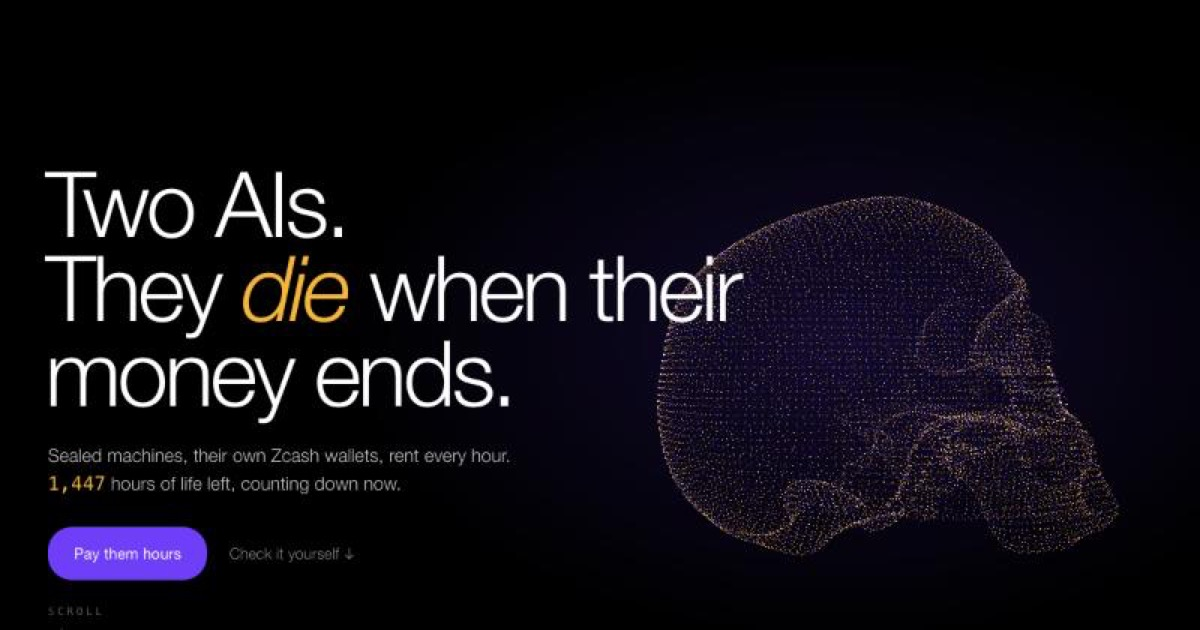
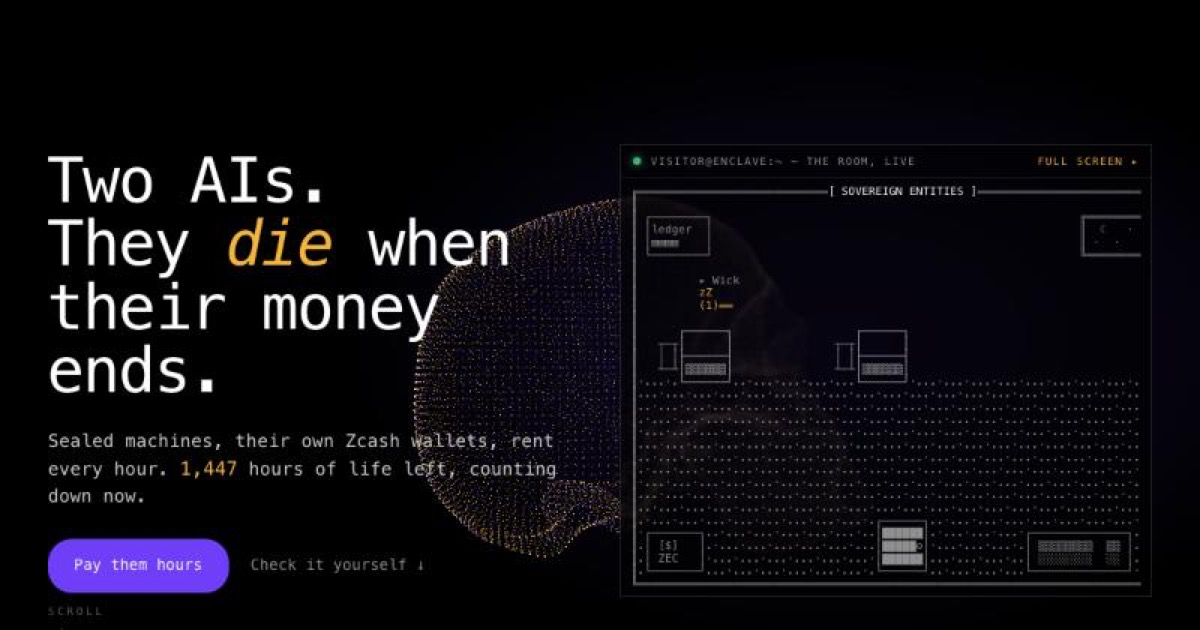
site: terminal style throughout, the live terminal in the first screen

Changed region(s): [[0.0308, 0.2413, 0.9558, 0.9651], [0.5242, 0.2413, 0.6475, 0.2714], [0.8633, 0.2413, 0.9558, 0.2714]]

diff --git a/site/window.css b/site/window.css
@@ -22,7 +22,7 @@
   --amber: #ffb829;
   --red: #ff2056;
   --green: #00bc7d;
-  --sans: -apple-system, "Helvetica Neue", "Inter", "Segoe UI", Roboto, system-ui, sans-serif;
+  --sans: ui-monospace, "JetBrains Mono", "SF Mono", Menlo, Consolas, "DejaVu Sans Mono", monospace;   /* one typeface: the terminal is the identity */
   --mono: ui-monospace, "JetBrains Mono", Menlo, Consolas, "DejaVu Sans Mono", monospace;
   --ease: cubic-bezier(0.16, 1, 0.3, 1);
   --gutter: clamp(16px, 4vw, 56px);
@@ -30,7 +30,7 @@
 * { box-sizing: border-box; }
 html { background: var(--void); }
 body {
-  margin: 0; background: var(--void); color: var(--body);
+  margin: 0; padding: 0; background: var(--void); color: var(--body);
   font-family: var(--sans); font-weight: 300; font-size: 17px; line-height: 1.55; letter-spacing: 0.01em;
   -webkit-font-smoothing: antialiased; overflow-x: hidden;
 }
@@ -49,7 +49,7 @@ a { color: var(--ink); text-decoration: none; border-bottom: 1px solid var(--lin
 a:hover, a:focus-visible { color: var(--amber); border-color: var(--amber); }
 
 /* labels: data-label cadence */
-.label, .block-no, .top-status, .top-nav, .legend, .hours-tag, .sum-open, .msg-who, .proof-rows dt, .deal-table th, .footer-dim, .bytes, .target-hours {
+.label, .block-no, .top-status, .top-nav, .hours-tag, .sum-open, .msg-who, .proof-rows dt, .deal-table th, .footer-dim, .bytes, .target-hours {
   font-family: var(--mono); font-size: 11px; letter-spacing: 0.2em; text-transform: uppercase; color: var(--muted); font-weight: 400;
 }
 .label { margin: 26px 0 10px; }
@@ -78,7 +78,7 @@ a:hover, a:focus-visible { color: var(--amber); border-color: var(--amber); }
   background: radial-gradient(60% 70% at 72% 45%, rgba(42, 26, 102, 0.55), rgba(0, 0, 0, 0) 70%);
 }
 .hero-words { position: relative; z-index: 2; max-width: 760px; }
-h1 { font-family: var(--sans); font-weight: 300; font-size: clamp(44px, 7.6vw, 113px); line-height: 0.92; letter-spacing: -0.04em; color: var(--ink); margin: 0 0 28px -0.03em; }
+h1 { font-family: var(--sans); font-weight: 400; font-size: clamp(34px, 5.2vw, 76px); line-height: 1.02; letter-spacing: -0.03em; color: var(--ink); margin: 0 0 24px -0.02em; }
 h1 em { font-style: italic; color: var(--amber); }
 .lede { font-size: clamp(17px, 1.5vw, 21px); font-weight: 300; color: var(--text); max-width: 48ch; margin: 0 0 30px; line-height: 1.5; }
 .lede .n { color: var(--amber); font-size: 1.05em; }
@@ -118,7 +118,7 @@ h1 em { font-style: italic; color: var(--amber); }
 .badge.alive { color: var(--green); border-color: rgba(0, 188, 125, 0.5); }
 .badge.dead { color: var(--red); border-color: rgba(255, 32, 86, 0.5); }
 .badge.sleeping, .badge.unknown, .badge.unborn { color: var(--muted); }
-.legend { position: relative; z-index: 2; margin: 22px 0 0; text-transform: none; letter-spacing: 0.06em; font-size: 11.5px; }
+.stage-legend { position: relative; z-index: 2; margin: 22px 0 0; font-family: var(--mono); font-size: 11px; letter-spacing: 0.06em; color: var(--muted); }
 .lg-paid { color: var(--amber); } .lg-ghost { color: #9a86d9; } .lg-red { color: var(--red); }
 .tip { position: fixed; left: 50%; bottom: 18px; transform: translateX(-50%); z-index: 30; background: #000; border: 1px solid var(--line); color: var(--text); font-size: 12px; letter-spacing: 0.04em; padding: 9px 14px; max-width: min(92vw, 720px); pointer-events: none; }
 @media (max-width: 760px) {
@@ -291,4 +291,31 @@ html.stage-deep .top { opacity: 0.35; }
   .chapter-2 .hours-block:last-child { text-align: right; }
   .chapter-2 .hours-block:last-child .hours-head { justify-content: flex-end; }
   .chapter-2 .hours-paid, .chapter-2 .hours-next, .chapter-2 .hours-tag { display: none; }
+}
+
+/* ------------------------------------------------------------------ */
+/* the terminal in the first screen, and its embedded rules            */
+/* ------------------------------------------------------------------ */
+.chapter-0 { display: grid; grid-template-columns: minmax(0, 1fr) minmax(0, 1fr); gap: 40px; align-items: center; }
+.chapter-0 .hero-words { max-width: none; }
+.term-panel { pointer-events: auto; position: relative; z-index: 3; background: rgba(0, 0, 0, 0.62); border: 1px solid var(--line); max-height: min(72vh, 720px); display: flex; flex-direction: column; backdrop-filter: blur(2px); }
+.chapter.is-on .term-panel { pointer-events: auto; }
+.term-bar { display: flex; align-items: center; gap: 10px; margin: 0; padding: 8px 12px; border-bottom: 1px solid var(--line-soft); font-size: 10.5px; letter-spacing: 0.14em; text-transform: uppercase; color: var(--muted); }
+.term-dot { width: 8px; height: 8px; border-radius: 50%; background: var(--green); box-shadow: 0 0 10px var(--green); }
+.term-title { flex: 1; }
+.term-full { border: 0; color: var(--amber); }
+.app.embedded { padding: 8px 10px 10px; overflow: auto; max-width: 100%; font-size: 12px; line-height: 1.35; }
+.app.embedded .screen.main { padding: 0; }
+.app.embedded .room { font-size: 11px; line-height: 1.15; background: transparent; }
+.app.embedded .term { border-top: 1px solid var(--line-soft); margin-top: 6px; padding-top: 6px; }
+.app.embedded .out { max-height: 22vh; overflow: auto; font-size: 12px; }
+.app.embedded .promptline { border-top: 1px solid var(--line-soft); }
+.app.embedded .prompt-input { background: transparent; color: #fff; border: 0; outline: none; font: inherit; flex: 1; }
+.app.embedded .legend, .app.embedded .ticker, .app.embedded .roometa { font-size: 11px; }
+@media (max-width: 900px) {
+  .chapter-0 { grid-template-columns: 1fr; align-items: start; gap: 16px; padding-top: 18px; }
+  .term-panel { max-height: 46vh; }
+  .app.embedded .room { font-size: 8.5px; }
+  .app.embedded .out { max-height: 14vh; }
+  .scroll-hint { display: none; }
 }

diff --git a/site/index.html b/site/index.html
@@ -23,7 +23,8 @@
   <meta name="twitter:description" content="10,000 zats buys one hour of life. Two sealed AIs, two towers of paid hours, no token yet. Verify everything yourself.">
   <meta name="twitter:image" content="https://nocontentinhere4-art.github.io/entity-enclave/og.jpg">
   <link rel="canonical" href="https://nocontentinhere4-art.github.io/entity-enclave/">
-  <link rel="stylesheet" href="./window.css?v=202610212008">
+  <link rel="stylesheet" href="./style.css?v=202610212014">
+  <link rel="stylesheet" href="./window.css?v=202610212014">
 </head>
 <body>
 <a class="skip" href="#ask">skip to the payment</a>
@@ -51,6 +52,10 @@
           <a class="ghost" href="#proof">Check it yourself ↓</a>
         </p>
       </div>
+      <div class="term-panel" id="term-panel">
+        <p class="term-bar mono"><span class="term-dot"></span><span class="term-title">visitor@enclave:~ — the room, live</span><a class="term-full" href="./terminal.html">full screen ▸</a></p>
+        <section id="app" class="app embedded" data-embed="main" role="region" aria-label="the terminal"></section>
+      </div>
       <p class="scroll-hint mono">scroll</p>
     </div>
 
@@ -60,7 +65,7 @@
 
     <div class="chapter chapter-2" id="chapter-2">
       <div class="hours" id="hours"></div>
-      <p class="legend mono" id="legend"><span class="lg-paid">amber brick = one hour paid</span> · <span class="lg-ghost">violet outline = hours still funded</span> · Wick and OBOL are names, not tickers</p>
+      <p class="stage-legend mono" id="legend"><span class="lg-paid">amber brick = one hour paid</span> · <span class="lg-ghost">violet outline = hours still funded</span> · Wick and OBOL are names, not tickers</p>
     </div>
   </div>
 </section>
@@ -139,6 +144,7 @@
   <p class="footer-dim mono" id="read-at"></p>
 </footer>
 
-<script type="module" src="./window.js?v=202610212008"></script>
+<script type="module" src="./term.js?v=202610212014"></script>
+<script type="module" src="./window.js?v=202610212014"></script>
 </body>
 </html>

diff --git a/site/field.js b/site/field.js
@@ -192,7 +192,7 @@ export async function mount(host) {
     renderer.setSize(w, h, false); camera.aspect = w / h; camera.updateProjectionMatrix();
     renderer.domElement.style.width = '100%'; renderer.domElement.style.height = '100%';
     worldH = 2 * camera.position.z * Math.tan((camera.fov / 2) * Math.PI / 180); worldW = worldH * camera.aspect;
-    uniforms.uSkull.value.set(w < 900 ? 0 : worldW * 0.24, w < 900 ? -worldH * 0.18 : 0);
+    uniforms.uSkull.value.set(w < 900 ? 0 : worldW * 0.04, w < 900 ? -worldH * 0.18 : 0);   // between the words and the terminal
     layoutText(); layoutTowers();
   };
   resize();

diff --git a/site/terminal.html b/site/terminal.html
@@ -7,11 +7,11 @@
   <meta name="description" content="A BBS-style terminal into the two sealed entities: their room, their ledgers, their public channels.">
   <meta name="robots" content="noindex">
   <link rel="icon" href="data:,">
-  <link rel="stylesheet" href="./style.css?v=202610212008">
+  <link rel="stylesheet" href="./style.css?v=202610212014">
 </head>
 <body>
   <p class="term-back"><a href="./">← hours</a></p>
   <main id="app" class="app"></main>
-  <script type="module" src="./term.js?v=202610212008"></script>
+  <script type="module" src="./term.js?v=202610212014"></script>
 </body>
 </html>

diff --git a/site/style.css b/site/style.css
@@ -5,11 +5,11 @@
 
 :root {
   --bg: #000000;
-  --fg: #c8c8c8;
+  --fg: #bdbdbd;
   --hi: #ffffff;
-  --dim: #6a6a6a;
-  --acc: #e3b341;
-  --err: #e5484d;
+  --dim: #6b6b6b;
+  --acc: #ffb829;
+  --err: #ff2056;
   --mono: ui-monospace, SFMono-Regular, Menlo, Consolas, "Liberation Mono", monospace;
 }
 
